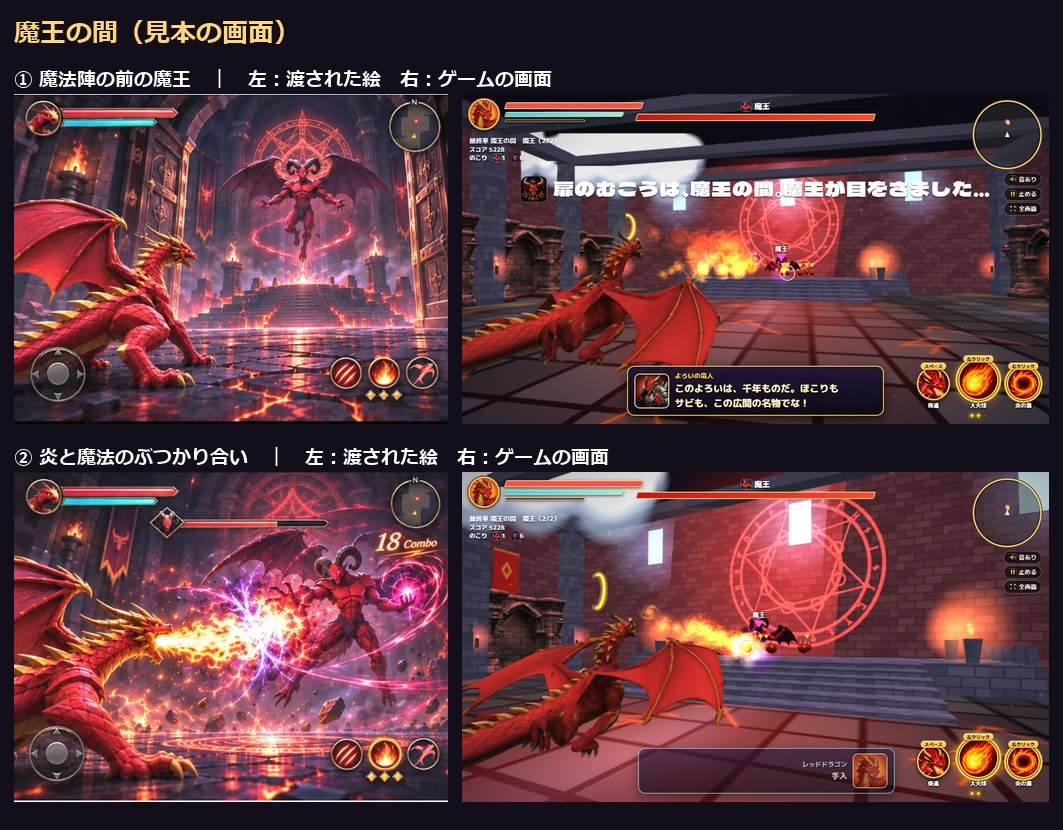
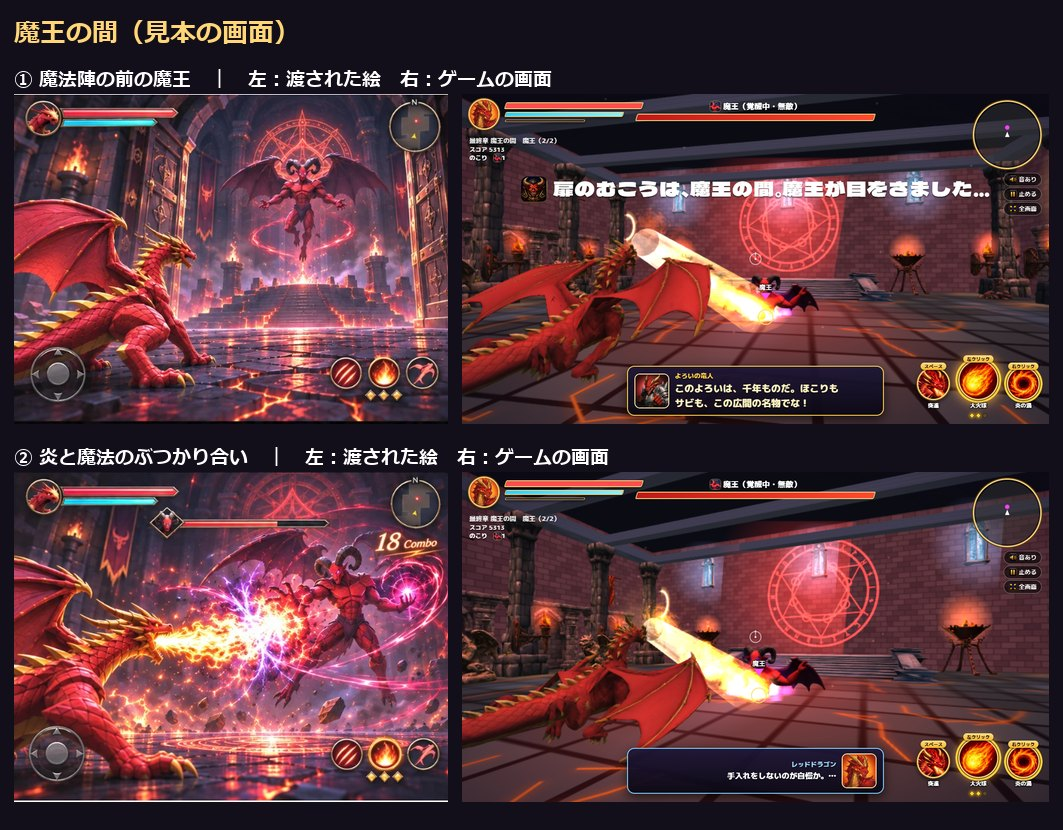
ゲームを更新

diff --git a/index.html b/index.html
@@ -830,7 +830,7 @@ const MODEL={},MIX=[];
 // 自分のキャラだけ別のモデルを使う時の対応（ワイバーン＝緑の方）。読めなかった時は元のモデルにもどる
 const PMODEL={wyvern:'wyvern2'};
 // 3Dモデルの版。モデルを作り直したら数字を変える（古い版がブラウザに残らないように）
-const ASSET_V='1116zy';let LOADED=0,LOADN=0,READY=false;
+const ASSET_V='1116zz';let LOADED=0,LOADN=0,READY=false;
 function loadStep(){LOADED++;const k=Math.round(LOADED/Math.max(1,LOADN)*100)+'%';const b=$('ldp');if(b)b.style.width=k;const n=$('ldn');if(n)n.textContent=k;}
 function loadDone(){if(READY)return;READY=true;$('title').classList.add('ready');$('press').textContent='クリック／タップではじめる';}
 async function loadModels(){try{await loadModels0();}finally{loadDone();}}
@@ -4345,6 +4345,11 @@ function dunHm(){if(DUN.hm&&DUN.hm.g===DUN.g)return DUN.hm;const cx=(DUN.x0+DUN.
 function dunSt(x,z){if(!DUN.on)return 0;if(MODEL.hstairs)return dunHm().at(x,z);const cx=(DUN.x0+DUN.x1)/2,w=DUN.x1-DUN.x0,ax=Math.abs(x-cx),dz=z-DUN.z0;if(dz<0)return 0;
   if(dz<28)return ax<w*0.25?8:0;if(dz<58&&ax<w*0.15)return 8-Math.floor((dz-28)/5)*1.3;return 0;}
 function dunFloorY(x,z){return DUN.on?DUN.y+dunSt(x,z):floorAt(x,z);}
+// 竜の体の長さを見た床の高さ（広間の中だけ）。前3点・後ろ2点の段の高さから少し引いた物と、まん中の高さの、いちばん高い所
+const DBY=[[4,0.2],[8,0.6],[11.5,1.2],[-5,0.6],[-9,1.4]];let dbyS=0;
+function dunBodyY(){if(!DUN.on)return floorAt(P.pos.x,P.pos.z);const c0=dunSt(P.pos.x,P.pos.z);if(C.human||!(charKey==='dragon'||charKey==='wyvern'||charKey==='ground')){dbyS=0;return DUN.y+c0;}
+  const fx=Math.sin(P.yaw),fz=Math.cos(P.yaw),k=charKey==='dragon'?1:0.8;let m=0;const dv=Math.max(0,-Math.sin(P.pitch||0))*0.7;for(const q of DBY){const st=dunSt(P.pos.x+fx*q[0]*k,P.pos.z+fz*q[0]*k);if(st<0.5)continue;const v=st-q[1]-c0+(q[0]>0?dv*q[0]*k:0);if(v>m)m=v;}
+  dbyS+=(m-dbyS)*0.22;return DUN.y+c0+dbyS;}
 function dunPush(){if(!DUN.on)return;const f=P.pos.y-C.gOff,x=P.pos.x,z=P.pos.z;if(DUN.y+dunSt(x,z)-f<=2.2)return;
   for(let d=0.5;d<45;d+=0.5)for(const q of [[d,0],[-d,0],[0,d],[0,-d]])if(x+q[0]>=DUN.x0+DUN.xm&&x+q[0]<=DUN.x1-DUN.xm&&z+q[1]>=DUN.zmin&&DUN.y+dunSt(x+q[0],z+q[1])-f<=2.2){P.pos.x=x+q[0];P.pos.z=z+q[1];P.vel.x*=0.3;P.vel.z*=0.3;return;}}
 const DFT={t:null,st:0,q:[]};
@@ -4407,9 +4412,9 @@ function dunBuild(o){dunClear();const g=new THREE.Group(),cx=o.cx,cz=o.cz,w=o.w,
   for(const sx of [-1,1])add(new THREE.Mesh(new THREE.BoxGeometry(8,5,d-24),pm),cx+sx*(w/2-16),gy+h*0.8+2.5,cz);
   // 横のかべのアーチ柱（Tripo）：柱と柱の間ごとに1つ。かべにぴったり付けて、広間の内がわへ向ける
   if(MODEL.dunarch){const bb=new THREE.Box3().setFromObject(MODEL.dunarch.scene),sz=bb.getSize(new V3()),ct=bb.getCenter(new V3()),wide=Math.max(sz.x,sz.z),deep=Math.min(sz.x,sz.z),k=Math.min((stp-1)/wide,h*0.62/sz.y),alongX=sz.x>=sz.z;
-    for(let i=0;i<n;i++)for(const sx of [-1,1]){const c=cloneModel('dunarch');if(!c)break;const q=new THREE.Group();c.position.set(-ct.x,-bb.min.y,-ct.z);q.add(c);q.scale.setScalar(k);
+    for(let i=0;i<n;i++)for(const sx of [-1,1]){const c=cloneModel('dunarch');if(!c)break;const q=new THREE.Group();c.position.set(-ct.x,-bb.min.y,-ct.z);q.add(c);{const kd=Math.min(k,5/deep);if(alongX)q.scale.set(k,k,kd);else q.scale.set(kd,k,k);}
       q.rotation.y=(alongX?-sx*Math.PI/2:(sx<0?0:Math.PI));c.traverse(o=>{if(o.isMesh){o.material=o.material.clone();if(MA)o.material.color.setRGB(1.5,1.0,0.95);else o.material.color.setRGB(1.45,1.45,1.6);}});
-      add(q,cx+sx*(w/2-deep*k/2-0.4),gy+0.5,z0+20+(i+0.5)*stp);}}
+      add(q,cx+sx*(w/2-deep*Math.min(k,5/deep)/2-0.4),gy+0.5,z0+20+(i+0.5)*stp);}}
   // 奥のかべ：青く光る窓3つ、階段と見はり台、扉
   for(const k of [-1,0,1]){{const wh=Math.max(16,h*0.28);if(!dunPut(g,'hwindow',cx+k*w*0.3,gy+h*0.76-wh/2,z0+1.4,{h:wh,t:1.25}))add(new THREE.Mesh(new THREE.PlaneGeometry(9,17),new THREE.MeshBasicMaterial({color:0xa8d4ff})),cx+k*w*0.3,gy+h*0.76,z0+0.6);}
     const gl=new THREE.Sprite(new THREE.SpriteMaterial({map:GT,color:0x7ab0ff,transparent:true,opacity:0.5,blending:THREE.AdditiveBlending,depthWrite:false}));gl.scale.set(46,46,1);gl.position.set(cx+k*w*0.3,gy+h*0.74,z0+4);g.add(gl);}
@@ -5822,7 +5827,7 @@ function frame(now){
     if(C.fly){
       const spd=P.dashT>0?C.spd*(C.human?2.2:3):slow?14:C.spd*(1+Math.max(0,-ad.y)*0.7)*((P.ringT||0)>0?1.5:1);const mv=(P.dashT>0?ad:ad).clone().multiplyScalar(spd);
       if((charKey==='dragon'||charKey==='wyvern')&&P.onGround&&!(P.dashT>0)){const wk=charKey==='wyvern'?0.24:RIGCF.walk;mv.x*=wk;mv.z*=wk;}P.vel.lerp(mv,1-Math.exp(-(P.dashT>0?10:3.2)*dt));P.pos.addScaledVector(P.vel,dt);
-      dunPush();const gh=dunFloorY(P.pos.x,P.pos.z)+C.gOff;if(P.onGround&&P.pitch<0.1&&!(P.dashT>0)&&P.pos.y<gh+3.5&&P.pos.y>gh&&(DUN.on||H(P.pos.x,P.pos.z)>WATER+0.3||bridgeY(P.pos.x,P.pos.z)>WATER)){P.pos.y=gh;if(P.vel.y>0)P.vel.y=0;}
+      dunPush();const gh=dunBodyY()+C.gOff;if(P.onGround&&P.pitch<0.1&&!(P.dashT>0)&&P.pos.y<gh+3.5&&P.pos.y>gh&&(DUN.on||H(P.pos.x,P.pos.z)>WATER+0.3||bridgeY(P.pos.x,P.pos.z)>WATER)){P.pos.y=gh;if(P.vel.y>0)P.vel.y=0;}
       if(P.pos.y<gh){P.pos.y=gh;if(P.vel.y<-crT()&&(P.crashCd||0)<=0&&!C.human&&H(P.pos.x,P.pos.z)>WATER){P.crashCd=0.8;crash((-P.vel.y-crT()*0.8)*0.5,null,0,0);P.vel.y=20;}else if(P.vel.y<0)P.vel.y=0;}
       bldBlock(dt);const bt={hit:null};if(false){const need=bt.top+C.gOff-P.pos.y;P.pos.y+=Math.min(need,(need>5?24:50)*dt);if(P.vel.y<0)P.vel.y*=0.6;if(need>2.5&&!C.human){{const hv=Math.hypot(P.vel.x,P.vel.z);if(hv>crT()&&(P.crashCd||0)<=0){P.crashCd=0.8;crash((hv-crT()*0.72)*0.5,null,P.vel.x/hv,P.vel.z/hv);P.vel.x*=0.3;P.vel.z*=0.3;}}hitBld(bt.hit,90*dt);if(Math.random()<0.25){debris(P.pos,1,[0x9a8a72,0xa03a2a],0.8);shake(0.1);}}}
       P.onGround=P.pos.y<=gh+0.5&&(DUN.on||H(P.pos.x,P.pos.z)>WATER+0.3||bridgeY(P.pos.x,P.pos.z)>WATER);
@@ -5832,7 +5837,7 @@ function frame(now){
       const tn=Math.abs(dz(sx)),spd=(P.dashT>0?C.spd*(C.human?2.2:3):slow?10:C.spd*(1-tn*tn*(({golem:0.75,ground:0.6,army:0.5,hero:0.4})[charKey]||0)))*(smash?0.5:1)*(P.guardT>0?0.35:1)*(charKey==='kraken'?(H(P.pos.x,P.pos.z)<WATER-0.3?1.45:0.7):1);const k=1-Math.exp(-(P.dashT>0?10:9)*dt);
       P.vel.x+=(fx*spd-P.vel.x)*k;P.vel.z+=(fz*spd-P.vel.z)*k;P.vy-=50*dt;
       {const ox=P.pos.x,oz=P.pos.z,nx=ox+P.vel.x*dt,nz=oz+P.vel.z*dt;if(charKey!=='kraken'&&deepAt(nx,nz)&&!deepAt(ox,oz)){if(!deepAt(nx,oz)){P.pos.x=nx;P.vel.z*=0.3;}else if(!deepAt(ox,nz)){P.pos.z=nz;P.vel.x*=0.3;}else{P.vel.x*=-0.2;P.vel.z*=-0.2;}if(!P.wHint||P.wHint<t){P.wHint=t+4;ono(P.pos.clone().add(new V3(0,5,0)),'水だ！ 橋をさがそう','#9fdcff',22);}}else{P.pos.x=nx;P.pos.z=nz;}}P.pos.y+=P.vy*dt;
-      dunPush();const gh=dunFloorY(P.pos.x,P.pos.z)+C.gOff;if(P.pos.y<=gh){if(!P.onGround&&P.vy<-12){shake(0.3);smoke(tmp.set(P.pos.x,gh-C.gOff,P.pos.z),6,4,1.2,0x9a8a68,4);sfx('small',null,0.5);}P.pos.y=gh;P.vy=0;P.onGround=true;}else P.onGround=false;
+      dunPush();const gh=dunBodyY()+C.gOff;if(P.pos.y<=gh){if(!P.onGround&&P.vy<-12){shake(0.3);smoke(tmp.set(P.pos.x,gh-C.gOff,P.pos.z),6,4,1.2,0x9a8a68,4);sfx('small',null,0.5);}P.pos.y=gh;P.vy=0;P.onGround=true;}else P.onGround=false;
       P.vel.y=P.vy;
       bldBlock(dt);if(P.onGround&&Math.random()<0.15)smoke(tmp.set(P.pos.x,gh-C.gOff+0.5,P.pos.z),1,1.4,0.6,0xa8987a,1.5);
     }
